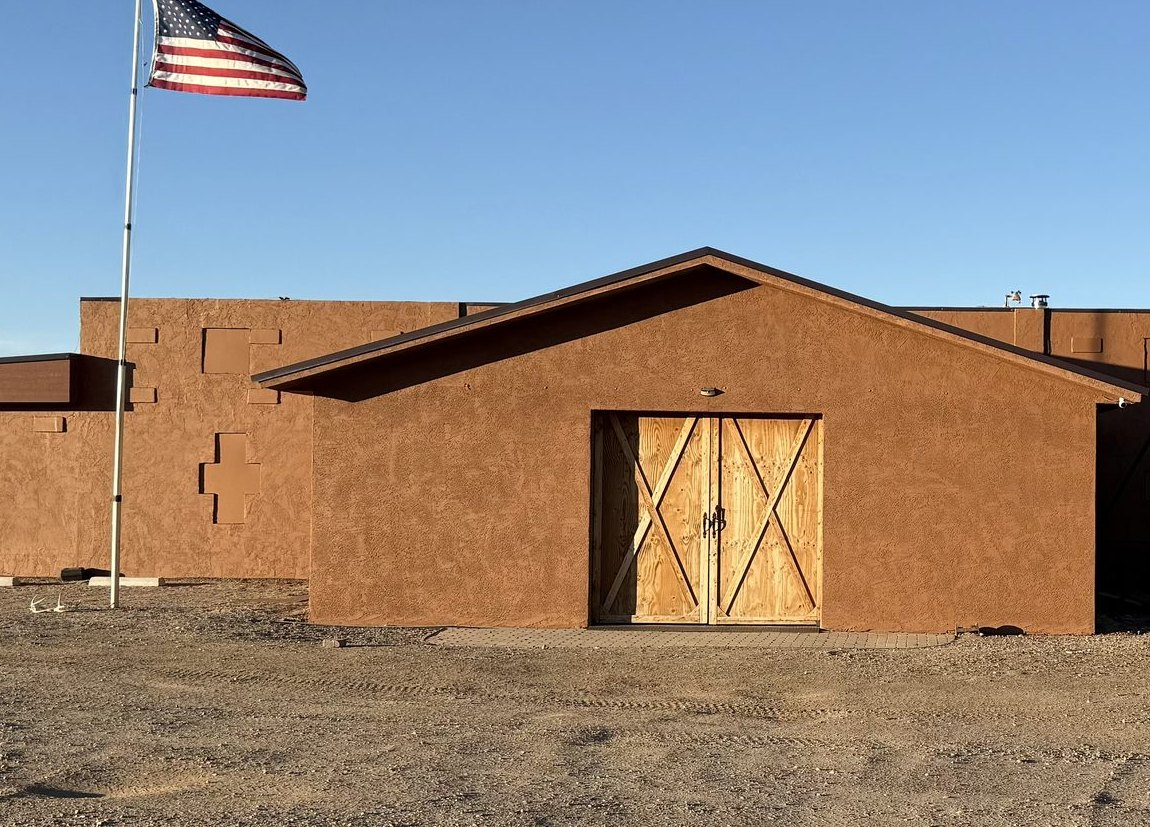
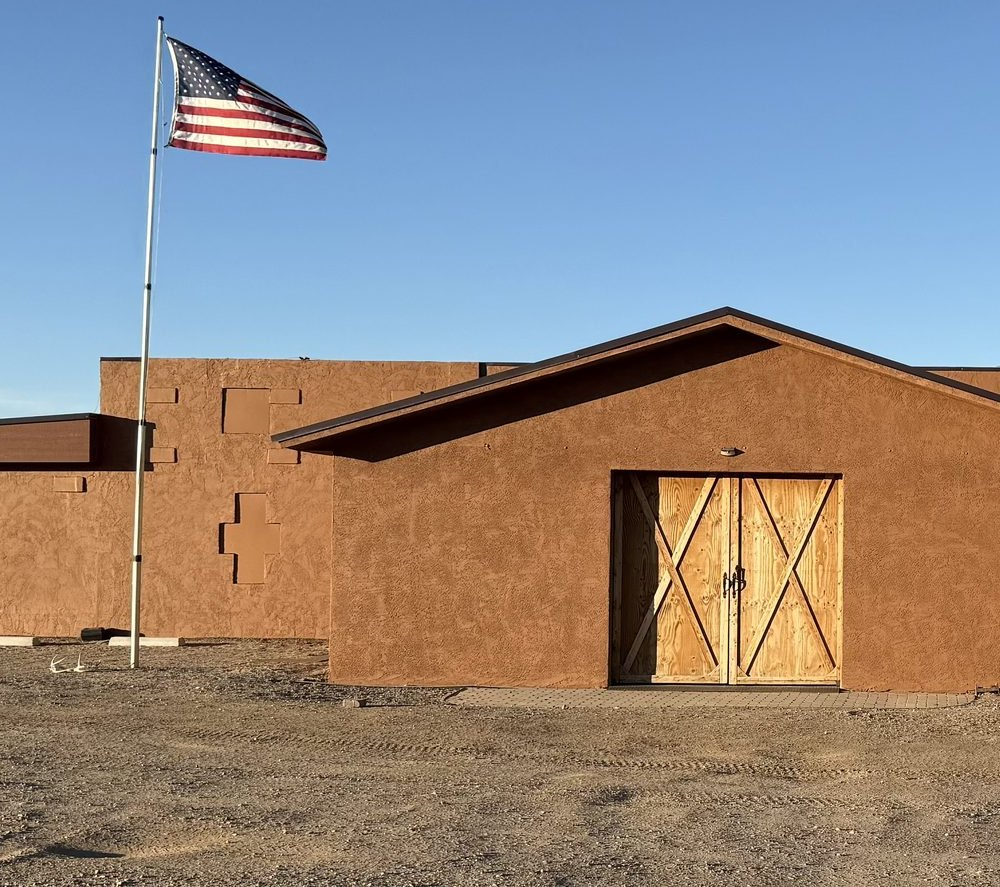
update mobile

diff --git a/index.html b/index.html
@@ -466,22 +466,39 @@ footer{background:var(--bg-dark2);padding:2rem 0;border-top:1px solid rgba(255,2
   .modal-top,.modal-body{padding:1.25rem}
 }
 
-/* ── MOBILE HERO ── dedicated crop, less dead sky ── */
+/* ── MOBILE HERO ──
+   Landscape photo in a portrait viewport can't fill the screen without
+   heavy cropping, so on mobile the image becomes a band shown in full
+   and the copy sits beneath it. ── */
 @media(max-width:768px){
   .hero{
-    min-height:100vh;
-    min-height:100svh;      /* avoids the iOS URL-bar height jump */
-    padding-bottom:3rem;
+    min-height:0;
+    display:block;
+    padding-top:0;
+    padding-bottom:2.75rem;
+    background:var(--bg-dark);
   }
   .hero-bg{
+    position:relative;
+    inset:auto;
+    width:100%;
+    aspect-ratio:1000/887;      /* matches hero-mobile.jpg exactly */
+    margin-top:64px;            /* clear the fixed nav */
     background:
       linear-gradient(to bottom,
-        rgba(26,26,24,0.30) 0%,
-        rgba(26,26,24,0.10) 30%,
-        rgba(26,26,24,0.72) 72%,
-        rgba(26,26,24,0.94) 100%),
-      url('images/hero-mobile.jpg') center 40%/cover no-repeat;
+        rgba(26,26,24,0.12) 0%,
+        rgba(26,26,24,0.00) 45%,
+        rgba(38,40,41,0.55) 88%,
+        var(--bg-dark) 100%),
+      url('images/hero-mobile.jpg') center/cover no-repeat;
   }
+  .hero-inner{padding:1.75rem 1.5rem 0}
+  .hero-eyebrow{margin-bottom:1rem}
+  .hero-logo{width:min(300px,72vw) !important;margin-bottom:1.35rem}
+  .hero-desc{font-size:0.92rem;max-width:34ch}
+}
+@supports not (aspect-ratio:1/1){
+  @media(max-width:768px){ .hero-bg{height:346px} }
 }
 
 /* Offset anchor jumps so headings clear the fixed nav */
